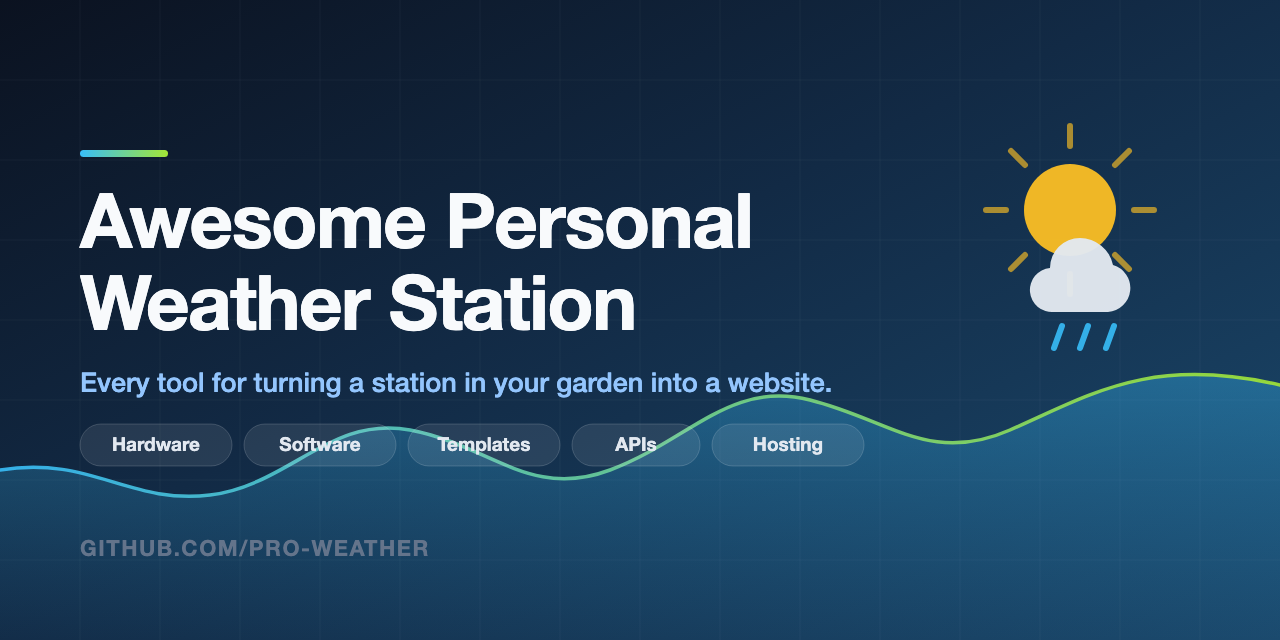
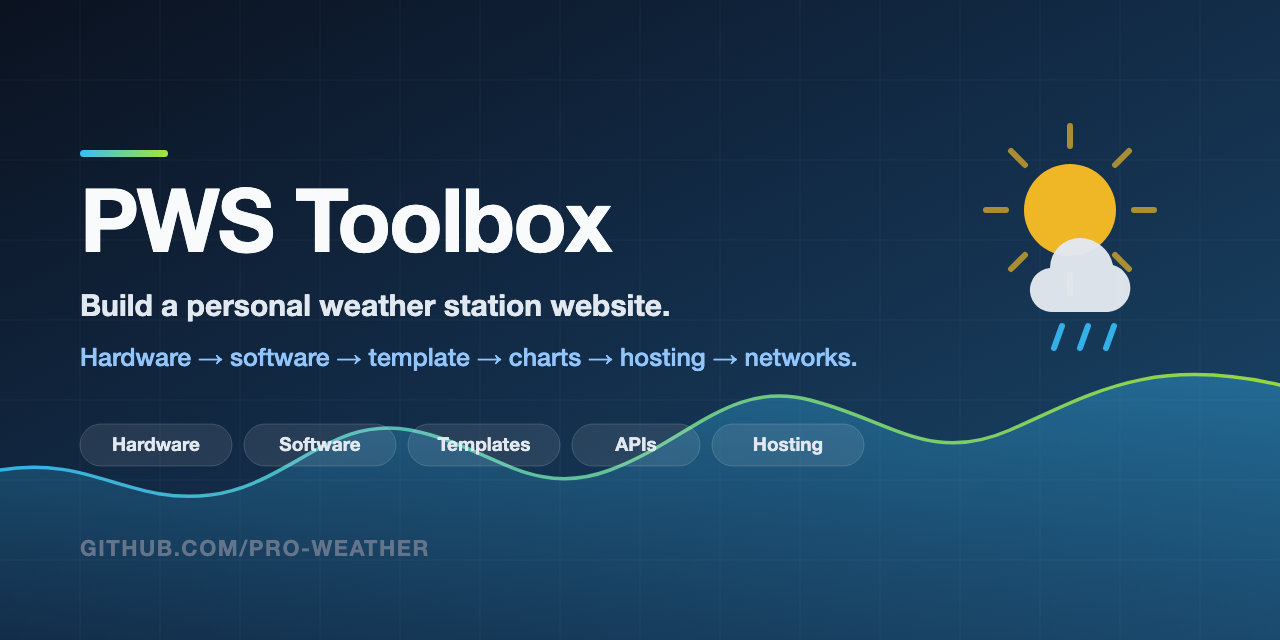
Rename to PWS Toolbox for the Pro-Weather org
Repo slug pws-toolbox across README badges, Discord share kit and the
webhook embed payload; retitle the social preview image to match.

Changed region(s): [[0.0625, 0.2812, 0.6562, 0.625]]

diff --git a/discord/README.md b/discord/README.md
@@ -20,7 +20,7 @@ Discord builds its preview from the repo's OpenGraph tags. GitHub generates thos
 
 ### Upload the social preview (60 seconds, manual, required)
 
-1. Go to **`https://github.com/Pro-Weather/awesome-personal-weather-station/settings`**
+1. Go to **`https://github.com/Pro-Weather/pws-toolbox/settings`**
 2. Scroll to **Social preview** → **Edit** → **Upload an image**
 3. Choose **[`assets/social-preview.png`](../assets/social-preview.png)** (1280 × 640, 412 KB)
 4. Paste the repo link into any Discord channel to check it
@@ -49,12 +49,12 @@ served over HTTPS. Keep important text out of the outer 5 % — mobile clients c
 ### One-liner
 ```
 🌦 Every tool for building a personal weather station website — hardware, software, skins, APIs, hosting.
-https://github.com/Pro-Weather/awesome-personal-weather-station
+https://github.com/Pro-Weather/pws-toolbox
 ```
 
 ### Short pitch (general channels)
 ```
-Put together an aggregation repo: **Awesome Personal Weather Station** 🌦
+Put together an aggregation repo: **PWS Toolbox** 🌦
 
 Everything you need to get a weather station in your garden onto the internet —
 stations & sensors, collection software (WeeWX / CumulusMX / rtl_433), website
@@ -63,14 +63,14 @@ skins & templates, charting libs, free weather APIs, the networks to upload to
 
 Plus 5 copy-me end-to-end stacks, from €0 to full DIY.
 
-<https://github.com/Pro-Weather/awesome-personal-weather-station>
+<https://github.com/Pro-Weather/pws-toolbox>
 ```
 > Wrapping a URL in `<angle brackets>` suppresses the embed — use that when you post several links
 > at once, and leave the *one* link you want previewed bare.
 
 ### For a weather / meteorology server
 ```
-🌦 **Awesome Personal Weather Station** — a curated index of every tool for running a PWS website.
+🌦 **PWS Toolbox** — a curated index of every tool for running a PWS website.
 
 📡 Hardware — Ecowitt · Davis · Tempest · Ambient · DIY
 🧰 Software — WeeWX · CumulusMX · Weather Display · Meteobridge · rtl_433
@@ -79,17 +79,17 @@ Plus 5 copy-me end-to-end stacks, from €0 to full DIY.
 🌍 Networks — Wunderground · CWOP · Windy · PWSWeather · WOW
 ☁ Hosting — Cloudflare Tunnel · GitHub Pages · Docker
 
-CC0, PRs welcome: https://github.com/Pro-Weather/awesome-personal-weather-station
+CC0, PRs welcome: https://github.com/Pro-Weather/pws-toolbox
 ```
 
 ### For a homelab / selfhosted server
 ```
-If anyone here has a weather station gathering dust: **Awesome Personal Weather Station** 🌦
+If anyone here has a weather station gathering dust: **PWS Toolbox** 🌦
 
 Full self-hosted path — WeeWX/CumulusMX in Docker → SQLite/InfluxDB → a skin or Grafana →
 nginx behind a Cloudflare Tunnel. Ready-made docker-compose included, no port forwarding.
 
-https://github.com/Pro-Weather/awesome-personal-weather-station
+https://github.com/Pro-Weather/pws-toolbox
 ```
 
 ---

diff --git a/README.md b/README.md
@@ -1,16 +1,16 @@
 <div align="center">
 
-# 🌦 Awesome Personal Weather Station Websites
+# 🌦 PWS Toolbox
 
 **Every tool you need to turn a weather station in your garden into a website on the internet.**
 
 Hardware → collection software → database → skin/template → charts → hosting → the networks you upload to.
 Curated, categorised, and kept link-checked.
 
-[![Awesome](https://img.shields.io/badge/awesome-list-ff69b4?style=flat-square)](https://github.com/Pro-Weather/awesome-personal-weather-station)
+[![Awesome](https://img.shields.io/badge/awesome-list-ff69b4?style=flat-square)](https://github.com/Pro-Weather/pws-toolbox)
 [![License: CC0-1.0](https://img.shields.io/badge/license-CC0--1.0-blue?style=flat-square)](LICENSE)
 [![PRs Welcome](https://img.shields.io/badge/PRs-welcome-brightgreen?style=flat-square)](CONTRIBUTING.md)
-[![Link Check](https://img.shields.io/github/actions/workflow/status/Pro-Weather/awesome-personal-weather-station/links.yml?style=flat-square&label=links)](../../actions/workflows/links.yml)
+[![Link Check](https://img.shields.io/github/actions/workflow/status/Pro-Weather/pws-toolbox/links.yml?style=flat-square&label=links)](../../actions/workflows/links.yml)
 
 </div>
 

diff --git a/docs/station-software.md b/docs/station-software.md
@@ -29,7 +29,7 @@ This is the single most important choice you make — it determines which
 | …want a GUI, a built-in web server, and zero Python | **[CumulusMX](#cumulusmx)** |
 | …want an appliance you configure once and forget | **[Meteobridge](#meteobridge)** |
 | …have no console, just an SDR dongle | **[rtl_433](#rtl_433)** |
-| …already run Home Assistant for everything else | **[Home Assistant](#home-assistant)** |
+| …already run Home Assistant for everything else | **[Home Assistant](#home-automation-platforms)** |
 | …have an obscure old station nothing else supports | **[Weather Display](#weather-display)** |
 | …want to write it yourself in Python/Node/Go | [docs/diy.md](diy.md) |
 
